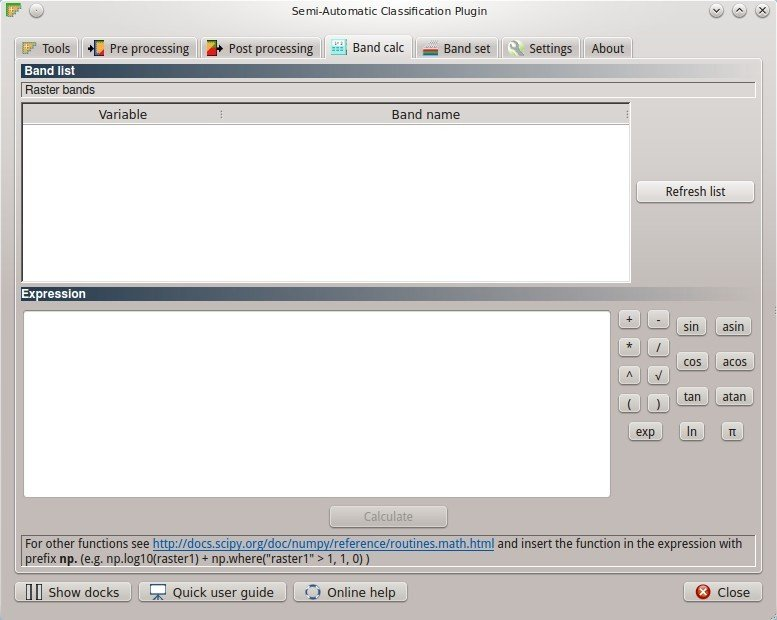
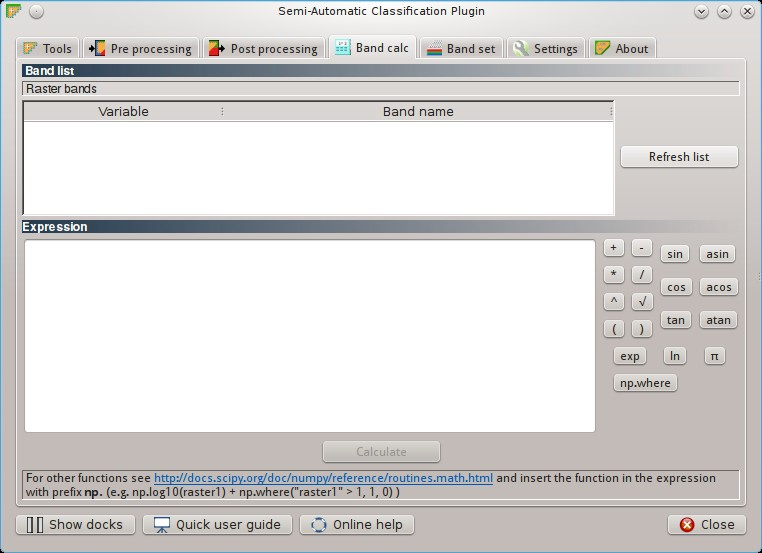
4.3.4.0

Changed region(s): [[0.0, 0.0, 1.0, 1.0]]

diff --git a/conf.py b/conf.py
@@ -56,7 +56,7 @@ copyright = u'2012-2015, Luca Congedo'
 # The short X.Y version.
 version = '4.3'
 # The full version, including alpha/beta/rc tags.
-release = '4.3.3.2'
+release = '4.3.4.0'
 
 # The language for content autogenerated by Sphinx. Refer to documentation
 # for a list of supported languages.

diff --git a/thematic_tutorials.rst b/thematic_tutorials.rst
@@ -8,7 +8,8 @@ Thematic Tutorials
 
  <br />
 
-Following, the list of tutorials:
+The following are thematic tutorials.
+Before these tutorials, it is recommended to read the :ref:`tutorials`.
 
 
 .. contents::
@@ -93,14 +94,179 @@ Work in progress ...
 
 .. _thematic_tutorial_6:
 
-Tutorial 6: Band calc
+Tutorial: Using the tool Band calc
 ===================================================
 
-Work in progress ...
+This is a tutorial about the use of the tool :ref:`band_calc_tab` that allows for the **raster calculation for bands**.
+In particular, we are going to calculate the NDVI (Normalized Difference Vegetation Index) of a Landsat image, and then apply a condition in order to refine a land cover classification (see :ref:`tutorial_2` ) basing on NDVI values (a sort of Decision Tree Classifier).
+
+The :ref:`band_calc_tab` can perform multiple calculations in sequence.
+We are going to apply a mask to every Landsat bands in order to exclude cirrus and cloud pixels from the NDVI calculation, and avoid anomalous values.
+In particular, Landsat 8 includes a `Quality Assessment Band <http://landsat.usgs.gov/L8QualityAssessmentBand.php>`_ ) that can be used for masking cirrus and cloud pixels.
+
+The values that indicate with high confidence cirrus or clouds pixels are (for the description of these codes see the table at http://landsat.usgs.gov/L8QualityAssessmentBand.php ):
+
+* 61440;
+* 59424;
+* 57344;
+* 56320;
+* 53248;
+* 31744;
+* 28672 .
+
+In particular, the Quality Assessment Band of the sample dataset includes mainly the value 53248 indicating clouds.
+Therefore, in this tutorial we are going to exclude the pixels with the **value 53248** from all the Landsat bands.
+
+First, **download the sample dataset**, which is a Landsat 8 image already converted to reflectance (see :ref:`tutorial_2_1`) from this link `from here <https://docs.google.com/uc?id=0BysUrKXWIDwBZFFMMlJNZXJpS3c&export=download>`_ (data available from the U.S. Geological Survey).
+Also, **download the land cover classification** from `here <https://docs.google.com/uc?id=0BysUrKXWIDwBYVlTZ2ZQRVo2V1k&export=download>`_ .
 
 .. _thematic_tutorial_6_1:
 
+Application of a mask to multiple bands
+------------------------------------------------------
+
+Unzip the downloaded dataset and load all the raster bands in QGIS.
+
+.. figure:: _static/tutorial_6_1.jpg
+	:align: center
+	
+	:guilabel:`Bands loaded in QGIS`
+	
+Open the :ref:`band_calc_tab` and click the button ``Refresh list``.
+
+.. figure:: _static/tutorial_6_2.jpg
+	:align: center
+	
+	:guilabel:`The Band calc tool`
+	
+We are going to use conditional expressions (i.e. ``np.where``, for more information see `this page <http://docs.scipy.org/doc/numpy/reference/generated/numpy.where.html>`_) with the follwing structure: ::
+
+	np.where( condition , value if true, value if false)
+	
+Where:
+
+* ``condition`` is a logical condition between bands or values;
+* ``value if true`` and ``value if false`` can be a numerical value, a band, or another expression.
+
+In ``Expression`` enter the following block of expressions: ::
+
+	np.where("LC81910312015006LGN00_BQA" == 53248, 0, "RT_LC81910312015006LGN00_B2")
+	np.where("LC81910312015006LGN00_BQA" == 53248, 0, "RT_LC81910312015006LGN00_B3")
+	np.where("LC81910312015006LGN00_BQA" == 53248, 0, "RT_LC81910312015006LGN00_B4")
+	np.where("LC81910312015006LGN00_BQA" == 53248, 0, "RT_LC81910312015006LGN00_B5")
+	np.where("LC81910312015006LGN00_BQA" == 53248, 0, "RT_LC81910312015006LGN00_B6")
+	np.where("LC81910312015006LGN00_BQA" == 53248, 0, "RT_LC81910312015006LGN00_B7")
+
+
+.. figure:: _static/tutorial_6_3.jpg
+	:align: center
+	
+	:guilabel:`The expression in Band calc`
+	
+	
+	**TIP** : If the text in ``Expression`` is green it means that the syntax is correct, otherwise it is red and the button ``Calculate`` is disabled.
+
+Click the button ``Calculate``, select where to save the bands (e.g. a new directory named `masked_bands`) and write the output name (e.g. ``masked``).
+Multiple outputs are created with the same output name and a numerical suffix based on the numerical order of the expressions.
+Calculated bands are also added to QGIS.
+
+.. figure:: _static/tutorial_6_4.jpg
+	:align: center
+	
+	:guilabel:`Masked bands`
+	
+According to the order of expressions, the file ``masked_1`` corresponds to the band ``RT_LC81910312015006LGN00_B2``,  the file ``masked_2`` corresponds to the band ``RT_LC81910312015006LGN00_B3``, and so on.
+Masked pixels have NoData values (i.e. nan).
+
+.. _thematic_tutorial_6_2:
+
 NDVI Calculation
 ------------------------------------------------------
+
+NDVI is an index calculated as ``( Near Infrared band - Red band ) / (Near Infrared band + Red band)`` which ranges from -1 to 1 .
+Green vegetation has the highest NDVI values tending to 1.
+
+Open the :ref:`band_calc_tab` and click the button `Refresh list`.
+Clear the content of ``Expression`` and write the following expression for the calculation of NDVI: ::
+
+	("masked_4.tif" - "masked_3.tif") / ("masked_4.tif" + "masked_3.tif")
 	
-Work in progress ...
+where ``masked_4.tif`` is the Near Infrared band and ``masked_3.tif`` is the Red band.
+
+
+.. figure:: _static/tutorial_6_5.jpg
+	:align: center
+	
+	:guilabel:`The expression in Band calc`
+	
+	
+	**TIP** : The expression can work both with ``Variable`` and ``Band name`` between quotes.
+	Also, bands in the :ref:`band_set_tab` can be referenced directly; for example ``bandset#b1`` refers to band 1 of the Band set.
+	Double click on any item in the :ref:`band_list2` for adding its name to the expression.
+
+Click the button ``Calculate``, select where to save the NDVI (e.g. a new file named `NDVI`).
+The NDVI is added to QGIS.
+
+.. figure:: _static/tutorial_6_6.jpg
+	:align: center
+	
+	:guilabel:`The NDVI calculated`
+	
+	
+.. _thematic_tutorial_6_3:
+
+Classification refinement basing on NDVI values
+------------------------------------------------------
+
+Load the downloaded classification in QGIS.
+
+.. figure:: _static/tutorial_6_7.jpg
+	:align: center
+	
+	:guilabel:`The land cover classification`
+	
+The classification is the result of :ref:`tutorial_2` where the land cover classes described in the following table were identified.
+
++-----------------------------+--------------------------+
+| Class name                  | Pixel value              |
++=============================+==========================+
+| Water                       |  1                       |
++-----------------------------+--------------------------+
+| Built-up                    |  2                       |
++-----------------------------+--------------------------+
+| Vegetation                  |  3                       |
++-----------------------------+--------------------------+
+| Bare soil                   |  4                       |
++-----------------------------+--------------------------+
+
+We are going to refine this classification defining the following condition: pixels having NDVI > 0.5 are classified Vegetation. 
+The value 0.5 is an arbitrary value that should be changed according to the image condition (i.e. phenological state of vegetation).
+
+Open the :ref:`band_calc_tab` and click the button `Refresh list`.
+Clear the content of ``Expression`` and write the following expression: ::
+
+	np.where("NDVI.tif" > 0.5, 3, "classification")
+	
+which means that if NDVI value is greater than 0.5, assign the pixel value 3 (i.e. Vegetation), otherwise leave the original classification value.
+
+.. figure:: _static/tutorial_6_8.jpg
+	:align: center
+	
+	:guilabel:`The expression in Band calc`
+	
+Click the button ``Calculate``, select where to save the new classification (e.g. a new file named ``refined_classification``).
+The new classification is added to QGIS.
+
+.. figure:: _static/tutorial_6_9.jpg
+	:align: center
+	
+	:guilabel:`The output land cover classification`
+	
+It is possible to copy the style from the original classification (in QGIS Layers right click on the layer name and select ``Copy style``) and paste it to the new classification (right click on the layer name and select ``Paste style``).
+
+.. figure:: _static/tutorial_6_10.jpg
+	:align: center
+	
+	:guilabel:`The output land cover classification with color style`
+	
+You can see that now a larger area is classified as vegetation.

diff --git a/main_interface_window.rst b/main_interface_window.rst
@@ -611,7 +611,7 @@ The following buttons are available:
 * [ ``atan`` ]: inverse tangent;
 * [ ``log`` ]: natural logarithm;
 * [ ``π`` ]: pi;
-
+* [ ``np.where`` ]: conditional expression with the syntax ``np.where( condition , value if true, value if false)`` ;
 * [ ``Calculate`` ]: if ``Expression`` is green, choose the output destination and start the calculation; if multiple expressions are entered, then multiple outputs are created with the same name and a numerical suffix according to the numerical order of expressions.
 
 .. _band_set_tab:
